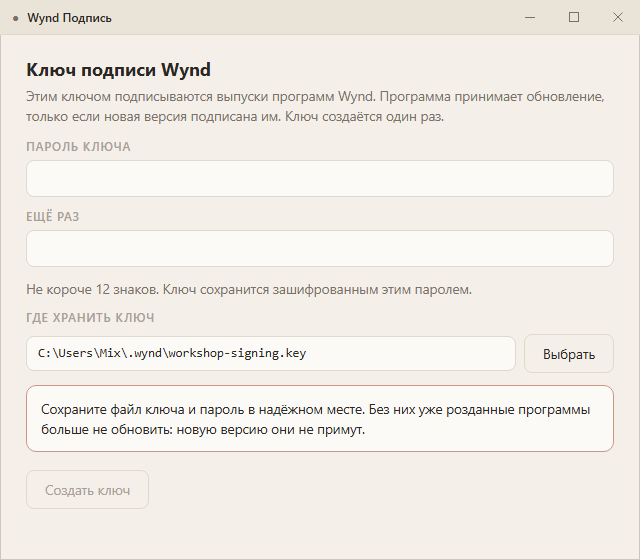
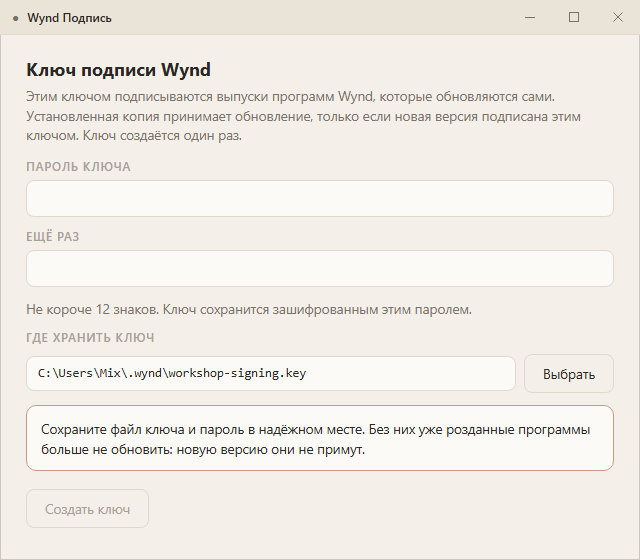
Подпись: 12а принят — текст о программах, которые обновляются сами

diff --git a/cmd/wynd-signer/frontend/src/App.svelte b/cmd/wynd-signer/frontend/src/App.svelte
@@ -279,8 +279,8 @@
 			<!-- Кадр 12а. -->
 			<h2>Ключ подписи Wynd</h2>
 			<p class="ins-sub">
-				Этим ключом подписываются выпуски программ Wynd. Программа принимает обновление, только если новая
-				версия подписана им. Ключ создаётся один раз.
+				Этим ключом подписываются выпуски программ Wynd, которые обновляются сами. Установленная копия
+				принимает обновление, только если новая версия подписана этим ключом. Ключ создаётся один раз.
 			</p>
 			<Label>Пароль ключа</Label>
 			<Input type="password" autocomplete="off" bind:value={pass1} />

diff --git a/docs/testing/signer-frames-2026-11-17/README.md b/docs/testing/signer-frames-2026-11-17/README.md
@@ -12,4 +12,6 @@
 
 Старые кадры 12а–12д в галерее — черновики и утверждённой основой не являются. Приёмка — только явными словами владельца; после неё галерея `docs/visual/workshop.html` обновляется этими снимками.
 
+**Приёмка по одному:** 12а принят 18.11 вместе с уточнением текста — вместо «Программа принимает обновление…» стоит «программы Wynd, которые обновляются сами. Установленная копия принимает обновление…»; снимок 12а переснят из стенда и заменён. Остальные кадры ждут приёмки.
+
 Снимки сделаны из текущего дерева (коммит-основа — `31695133`), стенд после съёмки остановлен.
